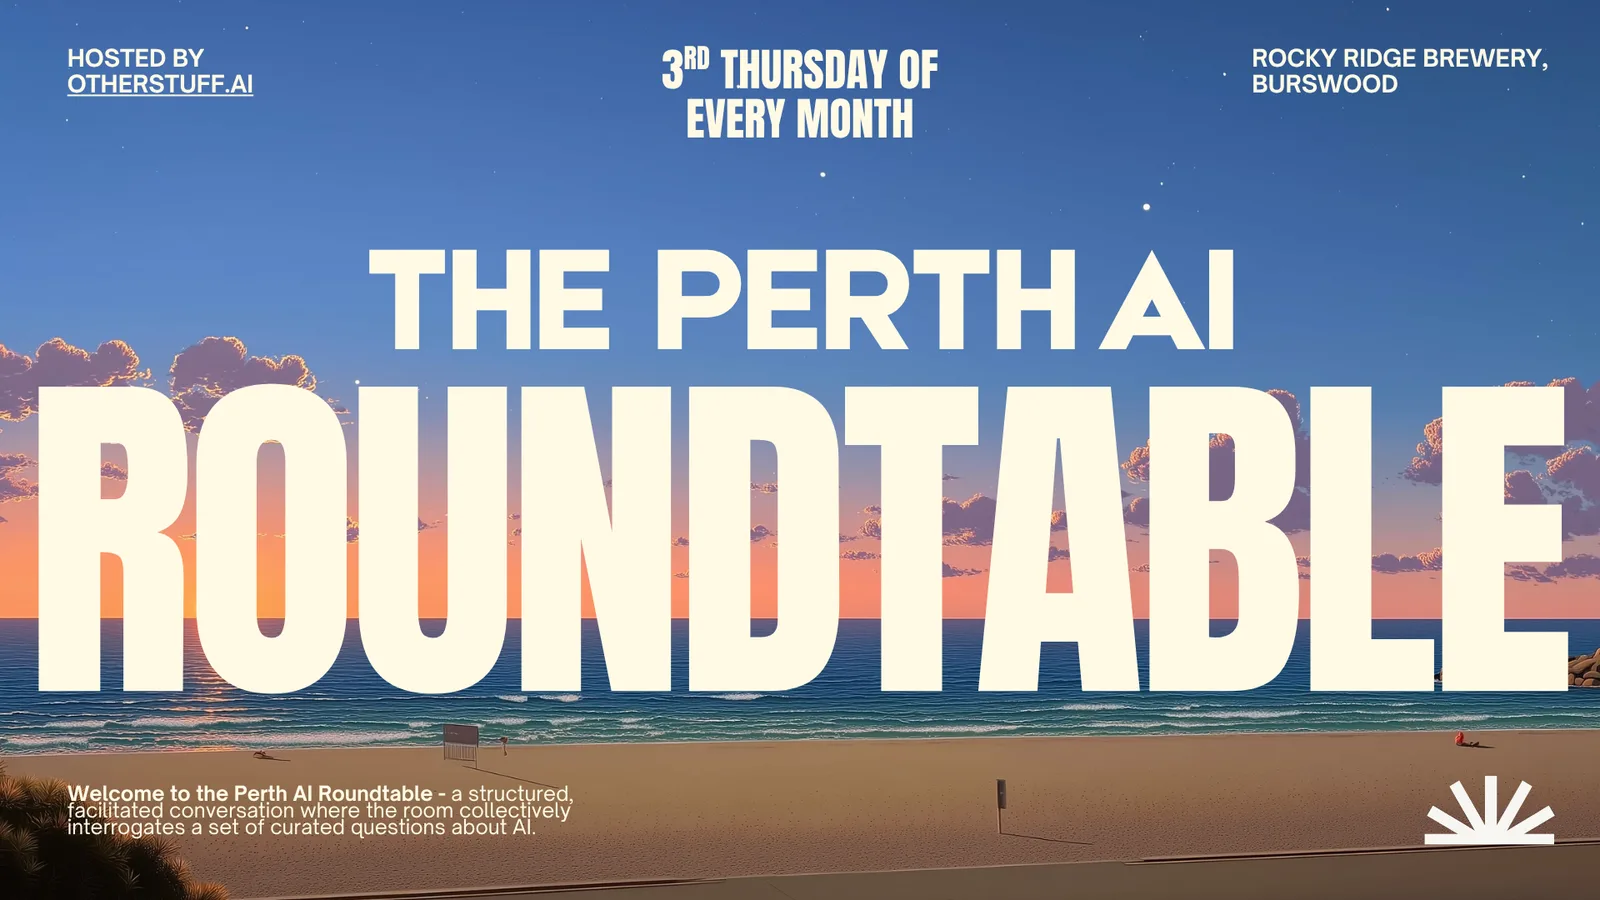
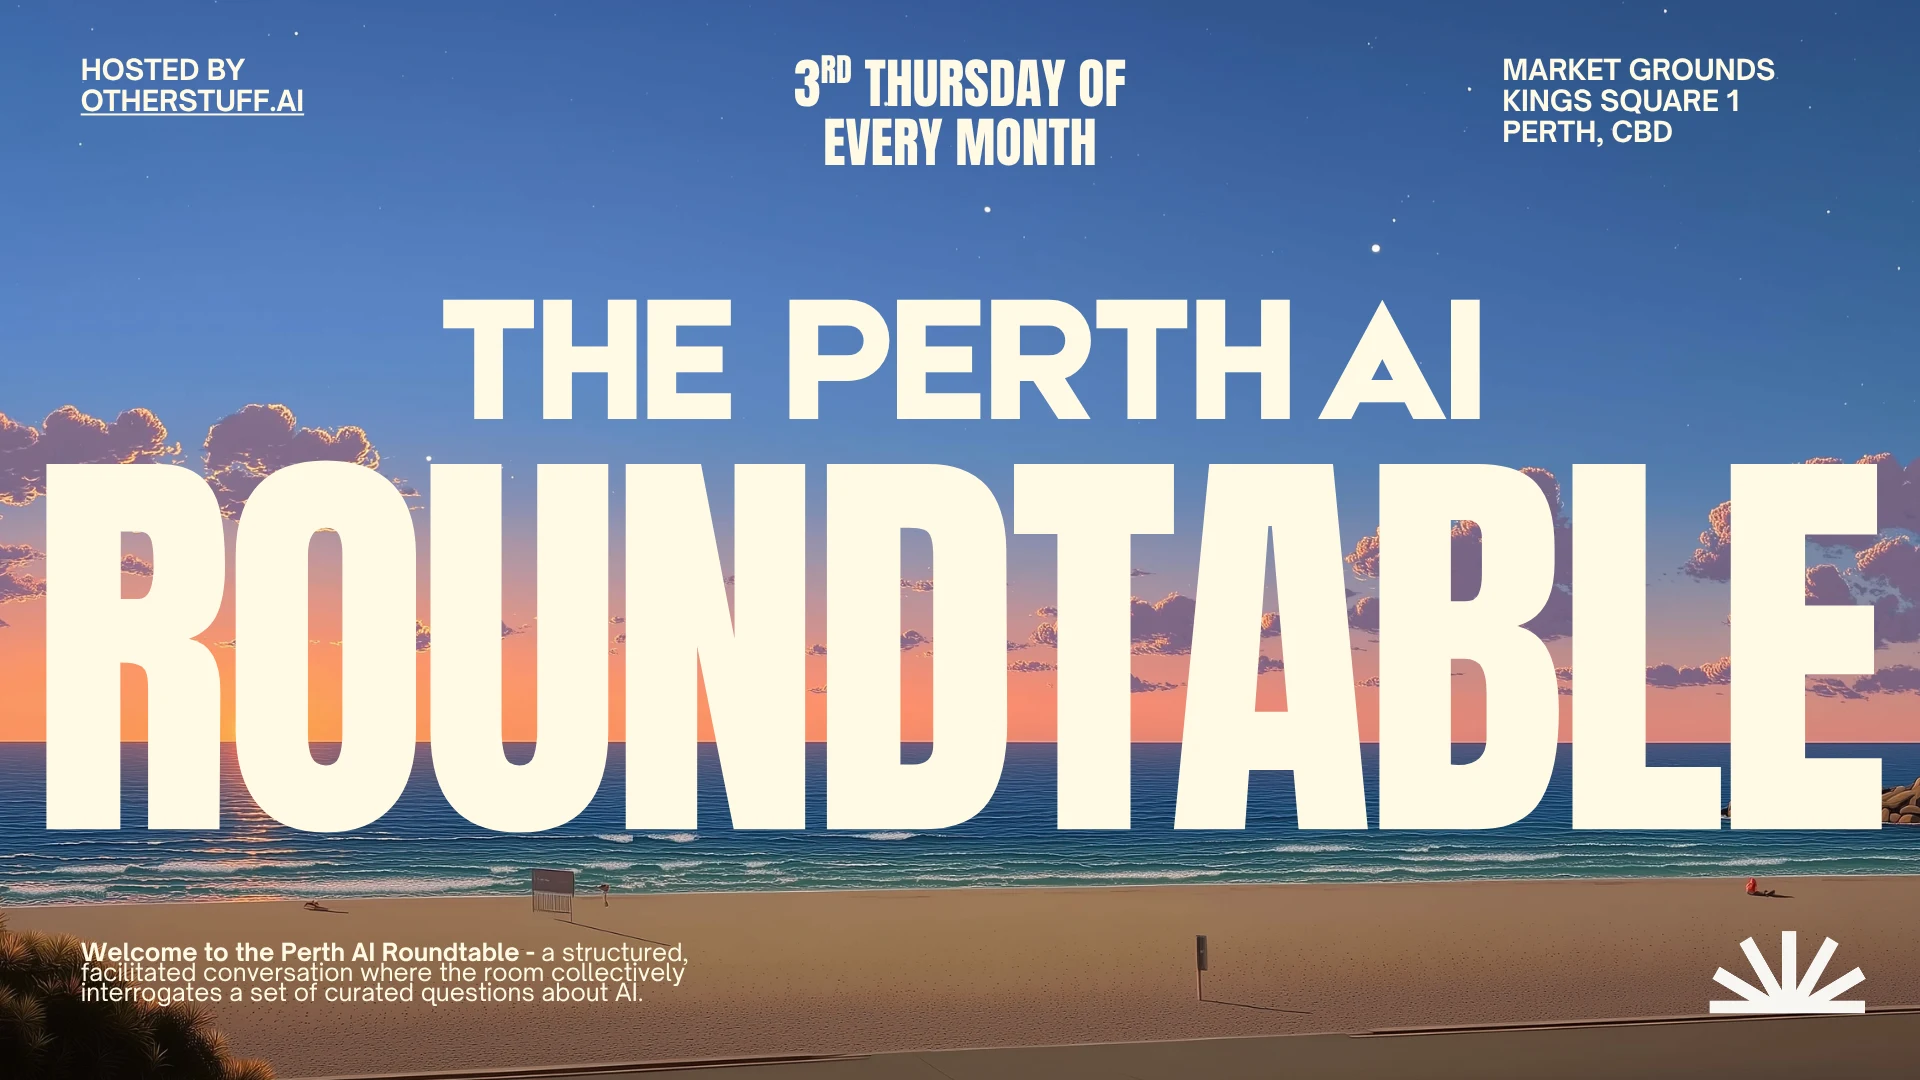
Roundtable: update venue and poster

Changed region(s): [[0.7812, 0.0311, 0.9688, 0.1556]]

diff --git a/src/routes/PerthAIRoundtable.tsx b/src/routes/PerthAIRoundtable.tsx
@@ -45,10 +45,11 @@ export default function PerthAIRoundtable() {
             eventStatus: "https://schema.org/EventScheduled",
             location: {
               "@type": "Place",
-              name: "Rocky Ridge Brewery",
+              name: "Market Grounds",
               address: {
                 "@type": "PostalAddress",
-                addressLocality: "Burswood",
+                streetAddress: "Kings Square 1",
+                addressLocality: "Perth",
                 addressRegion: "WA",
                 addressCountry: "AU",
               },
@@ -98,7 +99,7 @@ export default function PerthAIRoundtable() {
             <figure className="roundtable-hero-poster">
               <img
                 src="/perth-ai-roundtable-poster.webp"
-                alt="The Perth AI Roundtable event poster showing the third Thursday monthly format"
+                alt="The Perth AI Roundtable event poster for Market Grounds in Perth CBD"
               />
             </figure>
           </div>
@@ -333,7 +334,7 @@ export default function PerthAIRoundtable() {
             <div className="intro-pill">Join the Roundtable</div>
             <h2>Come to the next Perth AI Roundtable.</h2>
             <p>
-              We meet on the third Thursday of each month in Burswood. RSVP on Meetup
+              We meet on the third Thursday of each month at Market Grounds in Perth City. RSVP on Meetup
               and add a topic if there is a question you want the room to explore.
             </p>
             <div className="roundtable-cta-row">